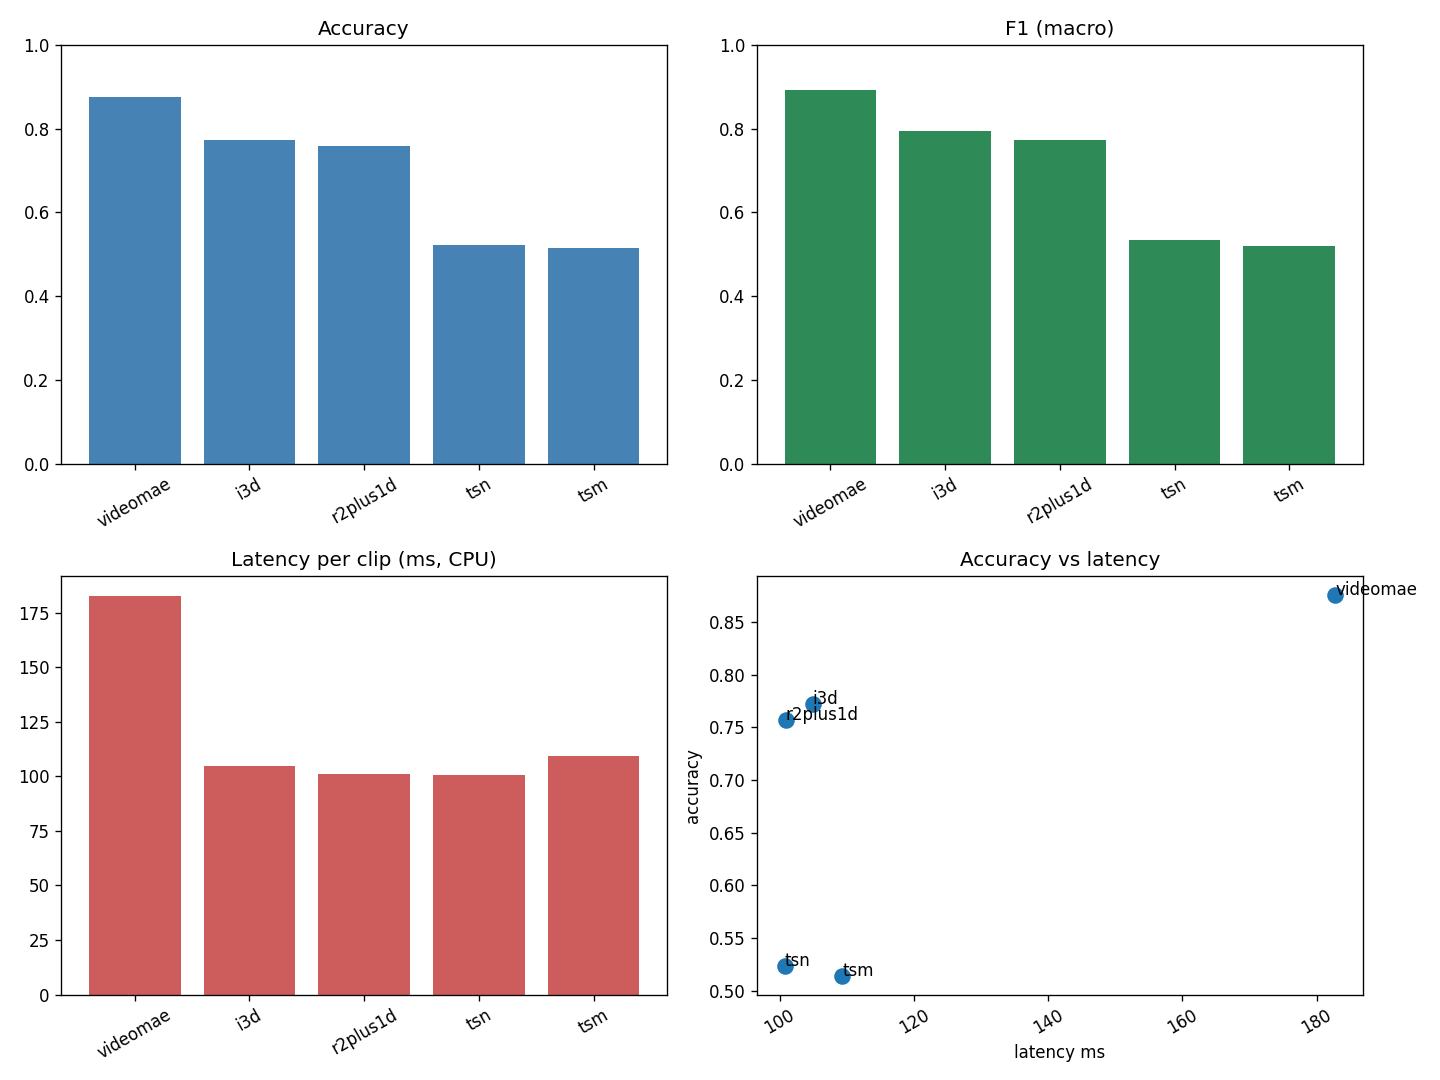
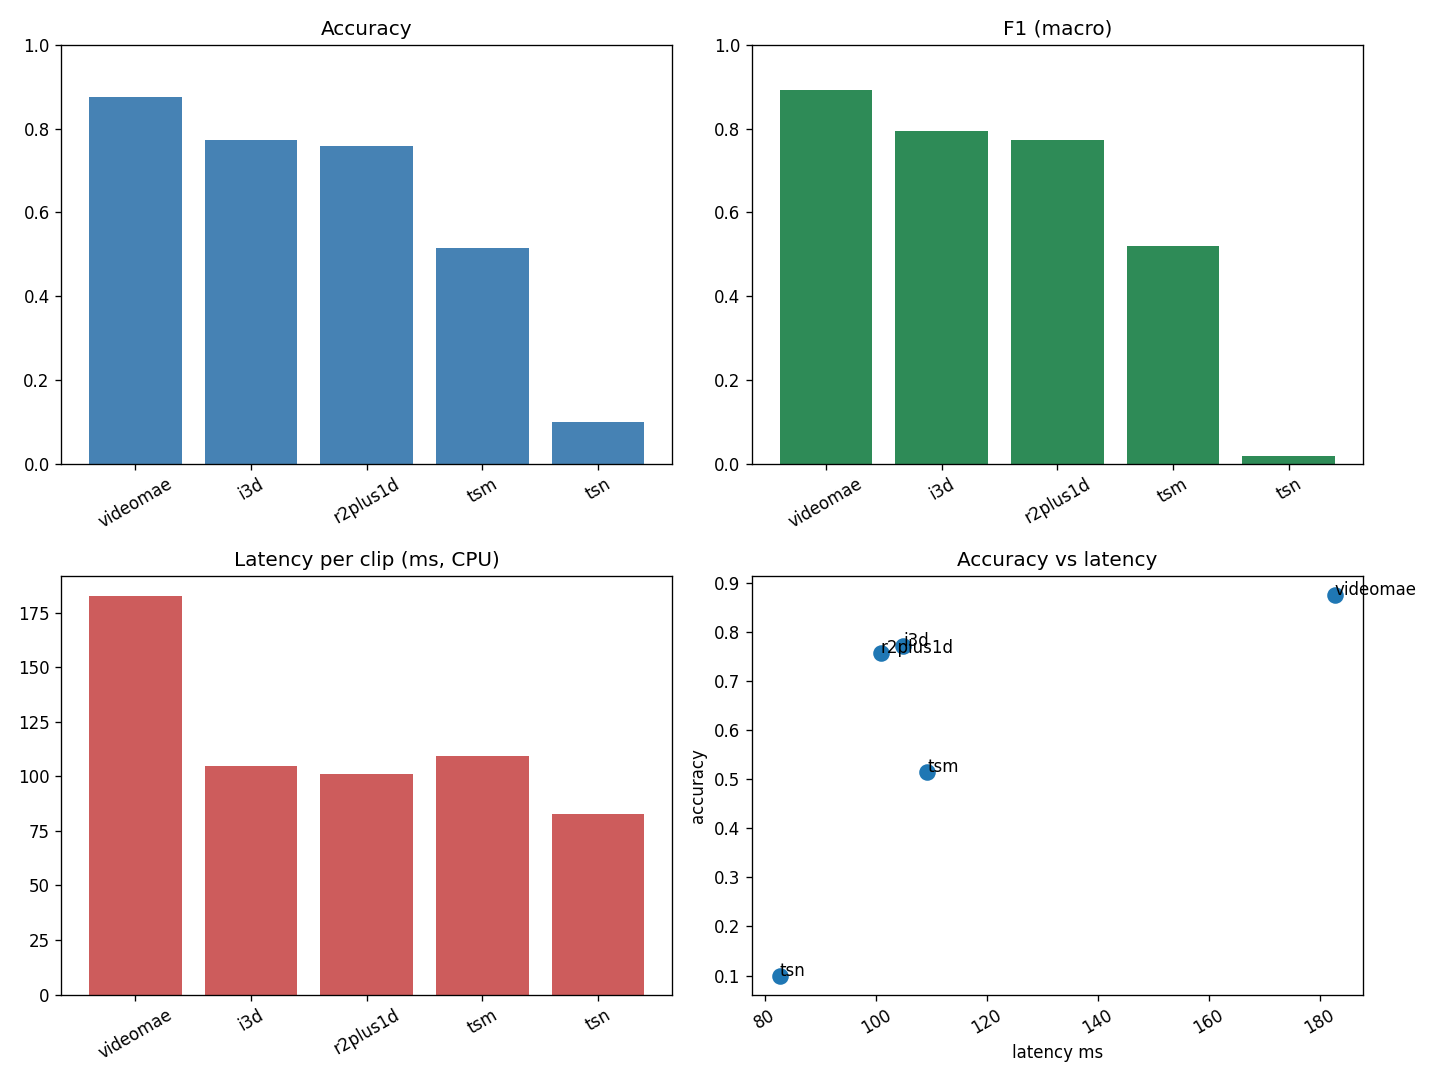
demo: выбор лучшей модели по умолчанию + README про чекпоинт для демо
- app.py: модель по умолчанию выбирается best-first (videomae->i3d->r2plus1d->...)
  среди доступных чекпоинтов
- README: как положить чекпоинт в checkpoints/ для реальных предсказаний (веса не
  в репо); проверено, что Streamlit поднимается на CPU (HTTP 200, health ok)

diff --git a/demo/app.py b/demo/app.py
@@ -19,11 +19,14 @@ def main() -> None:
     st.set_page_config(page_title="Action Recognition Demo", layout="wide")
     st.title("🎬 Распознавание действий на видео")
 
-    # ---- sidebar: model choice ----
-    available = [n for n in config.MODEL_NAMES
-                 if (config.CHECKPOINT_DIR / f"{n}_best.pt").exists()
-                 or (config.CHECKPOINT_DIR / f"{n}.pt").exists()]
-    default_models = available or config.MODEL_NAMES
+    # ---- sidebar: model choice (best-accuracy first) ----
+    PREF = ["videomae", "i3d", "r2plus1d", "timesformer", "tsm", "tsn"]
+    def _has_ckpt(n):
+        return ((config.CHECKPOINT_DIR / f"{n}_best.pt").exists()
+                or (config.CHECKPOINT_DIR / f"{n}.pt").exists())
+    order = [n for n in PREF if n in config.MODEL_NAMES]
+    available = [n for n in order if _has_ckpt(n)]
+    default_models = available or order
     model_name = st.sidebar.selectbox("Модель", default_models)
     tiny = st.sidebar.checkbox("tiny transformer (если нет весов)", value=False)
     if not available:

diff --git a/README.md b/README.md
@@ -89,10 +89,16 @@ python -m src.evaluate --model r2plus1d
 python -m src.compare
 python -m reports.generate_report
 ```
-**Демо:**
+**Демо** (Streamlit, инференс на CPU, 8 кадров):
 ```bash
 streamlit run demo/app.py
 ```
+Веса (`*.pt`) в репозиторий не входят. Для предсказаний на реальных данных положите
+чекпоинт лучшей модели в `checkpoints/` (например, `i3d_best.pt` — лёгкий и быстрый
+на CPU, или `videomae_best.pt` — самый точный), скачав его с Google Drive после
+обучения. Без чекпоинта демо запустится в режиме случайных предсказаний (для проверки
+интерфейса). Приложение показывает превью кадров, действие, уверенность (top-3) и
+ведёт SQLite-историю (`demo/history.db`).
 
 ## Воспроизводимость
 Seed зафиксирован (`SEED=42`, [src/config.py](src/config.py)), версии пакетов — в

diff --git a/results/comparison.md b/results/comparison.md
@@ -3,5 +3,5 @@
 | videomae |      0.876 |             0.894 |          0.892 |      0.892 |  87.543 |       1     |             0.664 | 86.23M   |   328.96  |        182.8 |
 | i3d      |      0.772 |             0.825 |          0.781 |      0.795 | 152.484 |       0.95  |             0.476 | 27.24M   |   104.132 |        104.9 |
 | r2plus1d |      0.757 |             0.79  |          0.772 |      0.772 | 158.603 |       0.85  |             0.443 | 31.31M   |   119.517 |        100.9 |
-| tsn      |      0.523 |             0.552 |          0.536 |      0.535 |  79.436 |       0.9   |             0.295 | 11.18M   |    42.691 |        100.7 |
 | tsm      |      0.514 |             0.554 |          0.52  |      0.521 |  73.203 |       0.862 |             0.265 | 11.18M   |    42.691 |        109.3 |
+| tsn      |      0.1   |             0.01  |          0.1   |      0.018 |  96.805 |       1     |             0.178 | 11.18M   |    42.691 |         82.6 |